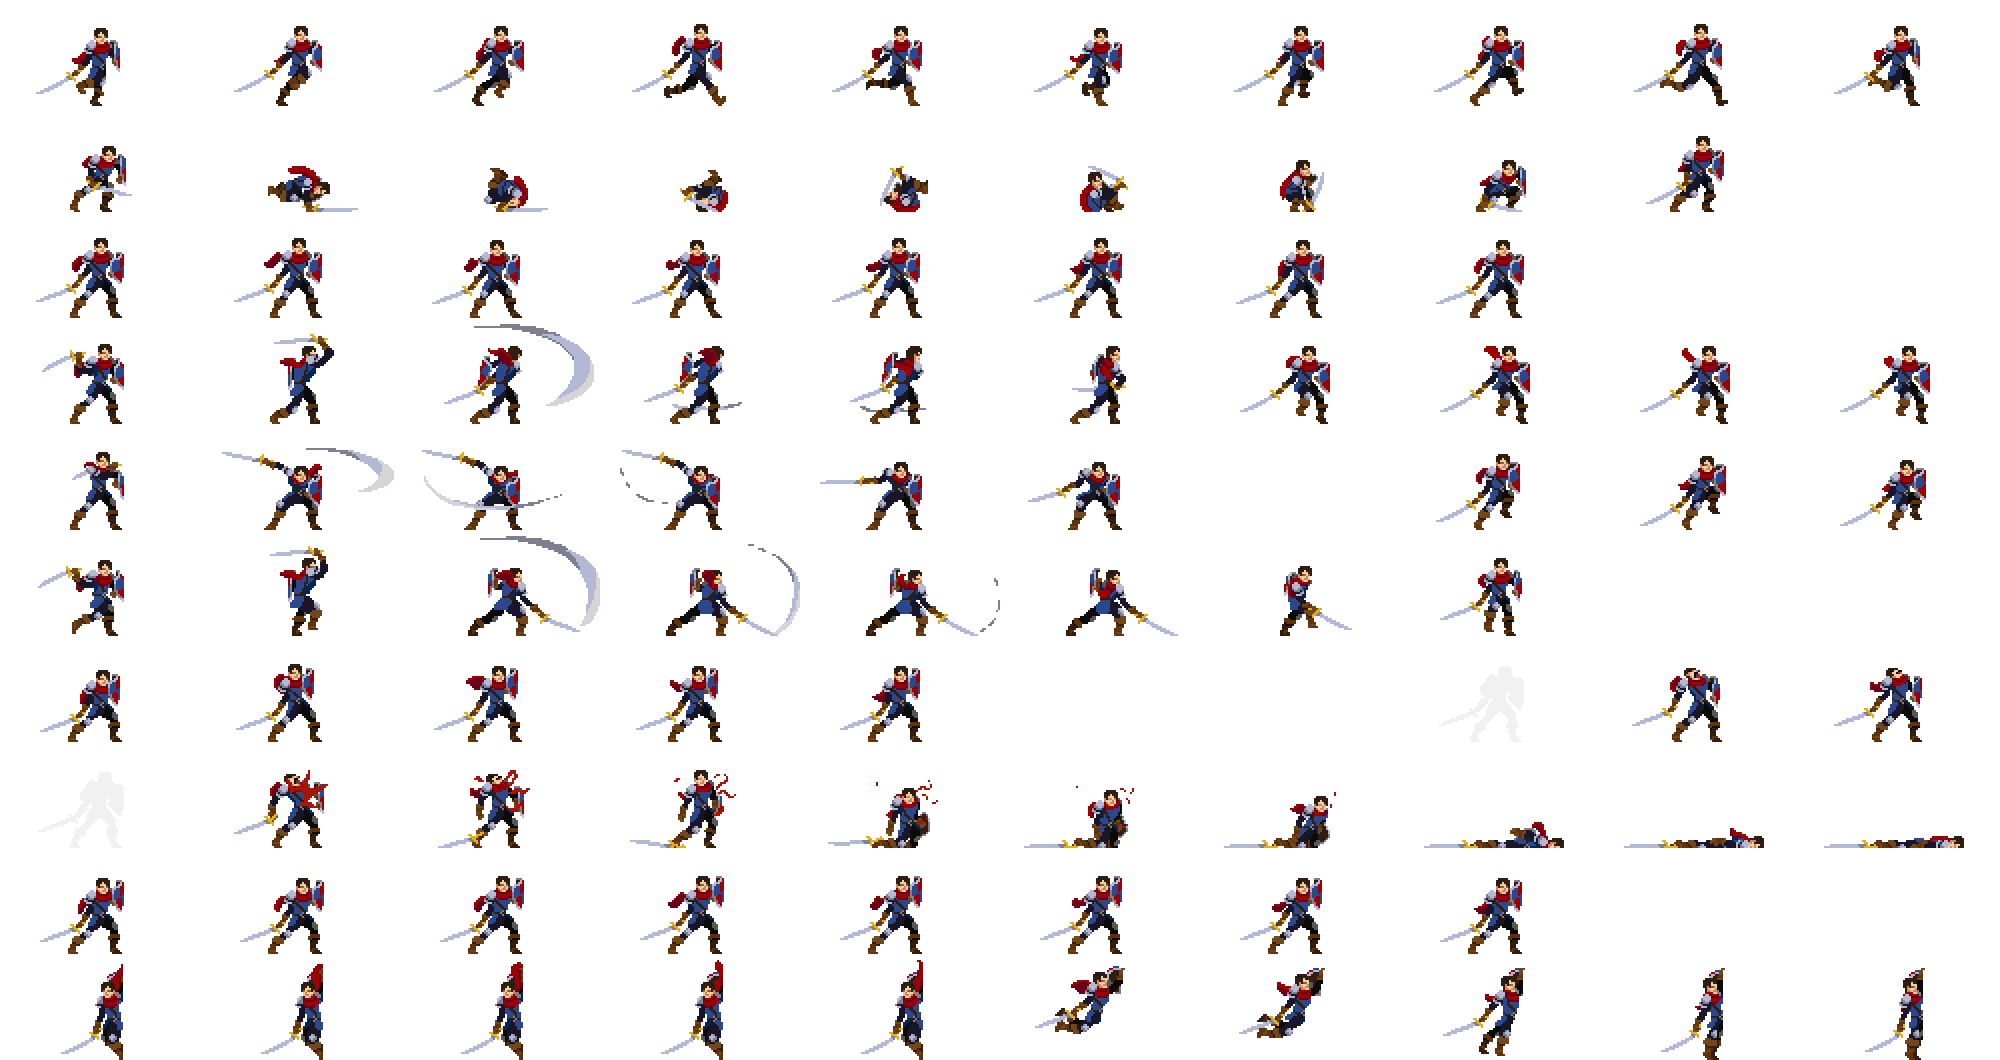
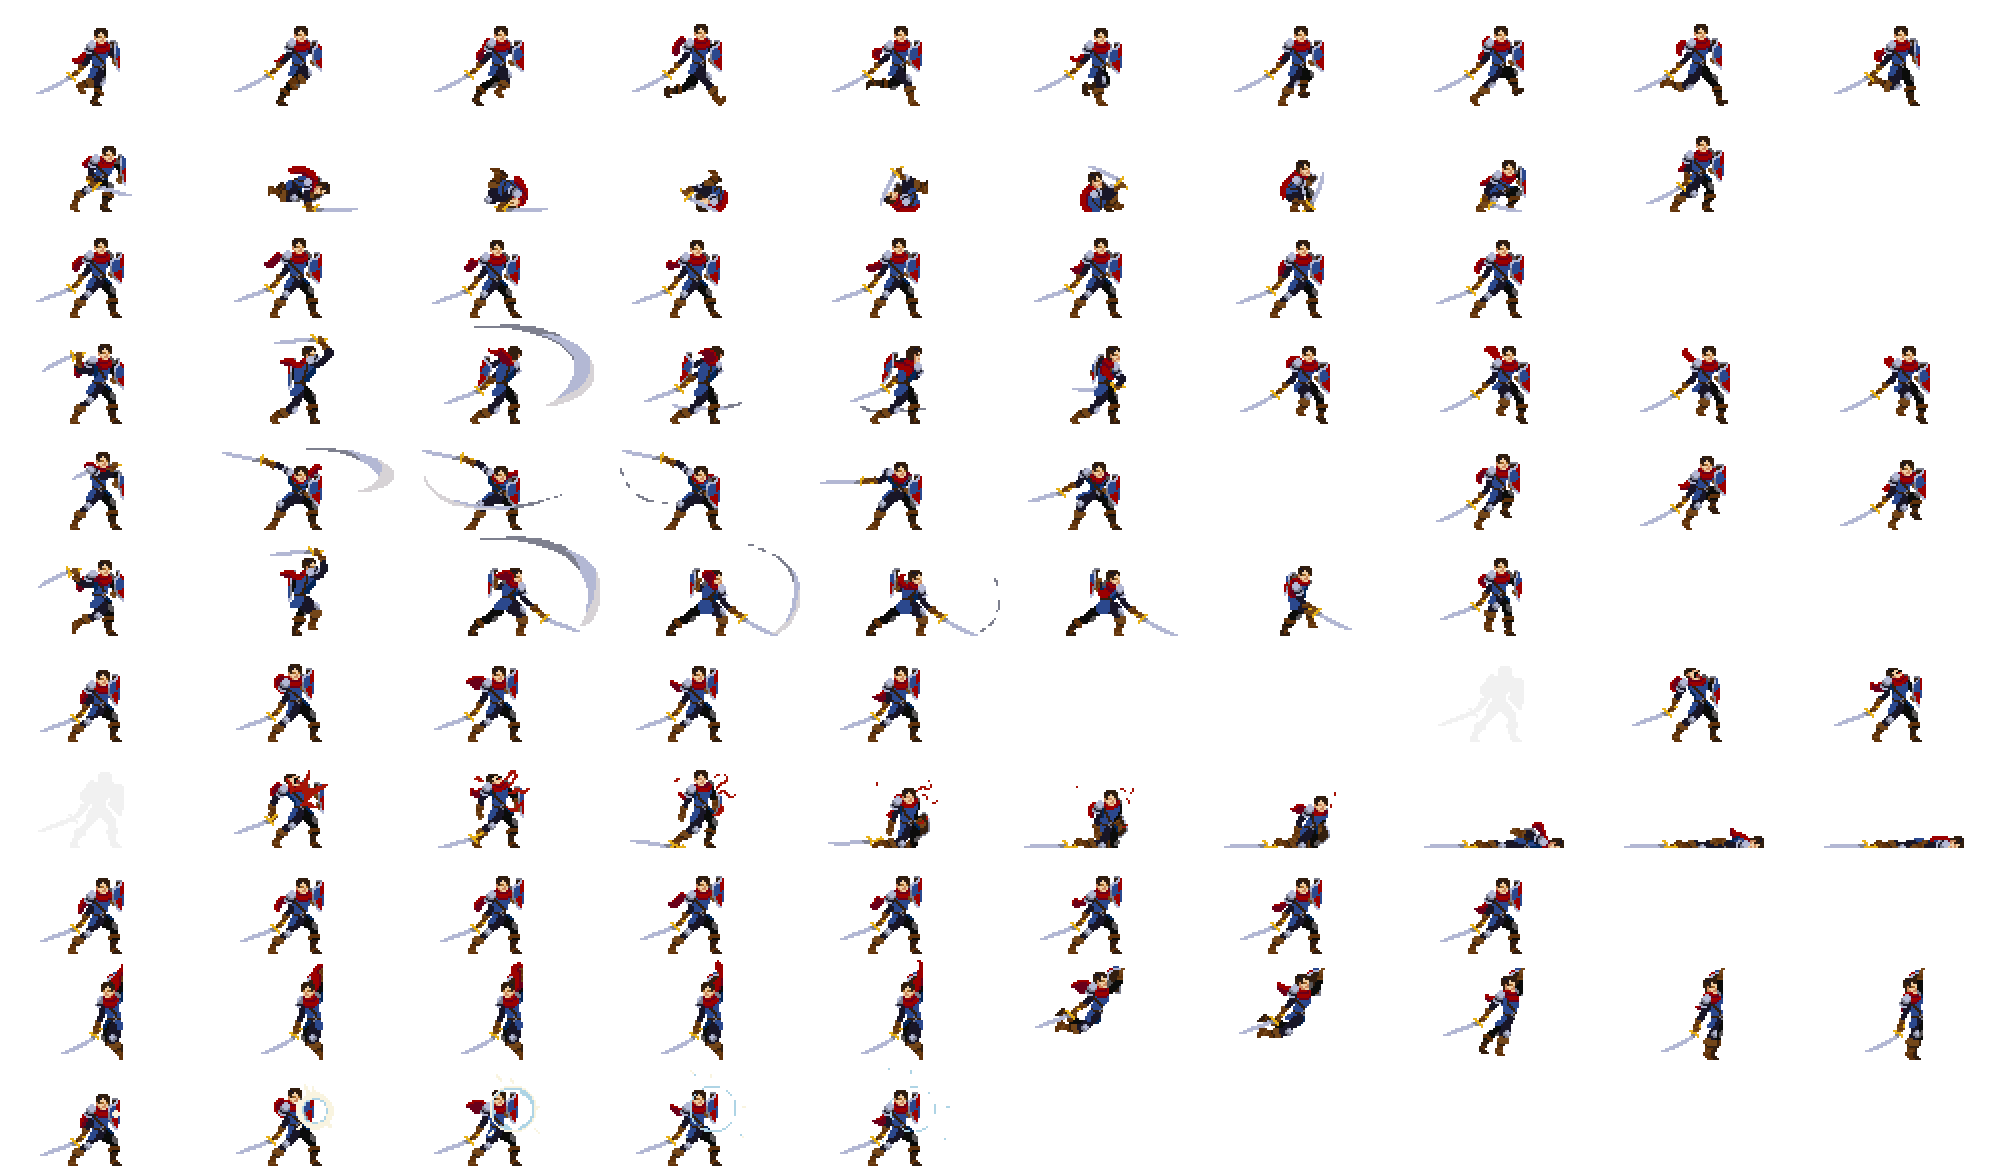
Hit block
Добавил обработку блокирования удара для игрока с учётом позиционирования к врагу.

diff --git a/src/Characters/Character.h b/src/Characters/Character.h
@@ -49,11 +49,12 @@ public:
     virtual void Update(float dt) = 0;
     virtual void Clean() = 0;
 
-    void SetDirection(Direction dir) { m_Direction = dir; }
-    void ChangeDirection();
+    virtual Direction GetDirection() { return m_Direction; }
+    virtual void SetDirection(Direction dir) { m_Direction = dir; }
+    virtual void ChangeDirection();
 
-    std::string GetAnimParamsSource();
-    void LoadAnimations(const std::string& fileSource);
+    virtual std::string GetAnimParamsSource();
+    virtual void LoadAnimations(const std::string& fileSource);
 
     virtual void SetParams(std::shared_ptr<AnimationSequence>, SDL_RendererFlip flip = SDL_FLIP_NONE);
     virtual void CollisionBoxRecalc();
@@ -65,12 +66,14 @@ public:
 
     virtual std::shared_ptr<SDL_Rect> GetCollisionBox() { return m_CollisionBox; }
     virtual std::shared_ptr<SDL_Rect> GetCollisionBoxAtk() { return m_CollisionBoxAtk; }
+    
     virtual Condition GetCondition() { return m_Condition; }
     virtual void SetCondition(Condition condition) { m_Condition = condition; }
 
     virtual void SetHitScored(bool scored) { m_HitScored = scored; }
     virtual bool GetHitScored() { return m_HitScored; }
     virtual bool IsHittingFrames() { return m_Animation->IsHitFrame(); }
+    virtual void SetHitBlocked(bool blocked) { m_HitBlocked = blocked; }
     
 
 protected:
@@ -97,7 +100,13 @@ protected:
 
     friend class AnimationParser;
 
-    bool m_HitScored {false};     // Current attack action (Hit) already scored a hit
+    bool m_HitScored {false};       // Current attack action (Hit) already scored a hit
+    
+    // For animating hit blocks faster than single block animation is done we need two variables:
+    // One for hit in block signal, that will be reset right after receiving
+    // Another for animating cycle
+    bool m_HitBlocked {false};      // Received a hit while in Blocking condition
+    bool m_HitBlockedEffect {false};    
 };
 
 

diff --git a/src/AI/AI.cpp b/src/AI/AI.cpp
@@ -15,9 +15,9 @@ AI::AI(BehaviorType behaveType) : Behavior { behaveType }
 
 void AI::Update(Enemy* enemy) 
 {
-    if (enemy->m_Condition == Character::Condition::Attacking || 
-        enemy->m_Condition == Character::Condition::Falling ||
-        enemy->m_Condition == Character::Condition::isHurt)
+    if (enemy->GetCondition() == Character::Condition::Attacking || 
+        enemy->GetCondition() == Character::Condition::Falling ||
+        enemy->GetCondition() == Character::Condition::isHurt)
     {
         return;
     }
@@ -50,11 +50,11 @@ void AI::Patrole(Enemy* enemy)
 {
     using Condition = Enemy::Condition;
     
-    if (enemy->m_Condition == Condition::IsIdle)
+    if (enemy->GetCondition() == Condition::IsIdle)
     {
         if (TimePassed(patrollingWaitingTime_ms, true, 0.8, 1.5))
         {
-            enemy->m_Condition = Condition::Running;
+            enemy->SetCondition(Condition::Running);
             enemy->ChangeDirection();
         }
         return;
@@ -109,18 +109,18 @@ void AI::ScanAround(Enemy* enemy)
 
 void AI::Run(Enemy* enemy)
 {
-    enemy->m_Condition = Enemy::Condition::Running;
+    enemy->SetCondition(Character::Condition::Running);
 }
 
 void AI::Attack(Enemy* enemy)
 {
-    enemy->m_Condition = Enemy::Condition::Attacking;
+    enemy->SetCondition(Enemy::Condition::Attacking);
     enemy->m_ComboState = Character::ComboState::HIT_1;
 }
 
 void AI::Idle(Enemy* enemy)
 {
-    enemy->m_Condition = Enemy::Condition::IsIdle;
+    enemy->SetCondition(Enemy::Condition::IsIdle);
 }
 
 

diff --git a/src/Battle/Battle.cpp b/src/Battle/Battle.cpp
@@ -39,17 +39,23 @@ void Battle::CheckPlayerIsHit(Enemy* enemy)
         return;
     if (enemy->GetHitScored())
         return;
-    if (Player->GetCondition() == Character::Condition::Blocking)
+
+    if (!Collision::CheckCollision(Player->GetCollisionBox(), enemy->GetCollisionBoxAtk(), attackOverlapX))
+    {    
         return;
-    if (Collision::CheckCollision(Player->GetCollisionBox(), enemy->GetCollisionBoxAtk(), attackOverlapX))
+    }
+
+    if ((Player->GetCondition() == Character::Condition::Blocking) && CheckPlayerFacesEnemy(enemy))
     {
-        Player->SetCondition(Character::Condition::isHurt);
-        enemy->SetHitScored(true);
+        Player->SetHitBlocked(true);
         return;
     }
     
+    Player->SetCondition(Character::Condition::isHurt);
+    enemy->SetHitScored(true);
     return;
 }
+
 
 void Battle::CheckEnemyIsHit(Enemy* enemy)
 {
@@ -65,4 +71,19 @@ void Battle::CheckEnemyIsHit(Enemy* enemy)
     }
 
     return;
+}
+
+bool Battle::CheckPlayerFacesEnemy(Enemy* enemy)
+{
+    using Direction = Character::Direction;
+    
+    switch (Player->GetDirection())
+    {
+    case Direction::forward:
+        return (Player->GetPosition()->X < enemy->GetPosition()->X);
+    case Direction::backward:
+        return (Player->GetPosition()->X > enemy->GetPosition()->X);
+    default:
+        return false;
+    }
 }

diff --git a/src/Characters/Knight.cpp b/src/Characters/Knight.cpp
@@ -406,6 +406,22 @@ void Knight::Block()
     m_RigidBody->Stop();
     m_RigidBody->UnsetForce();
 
+    if (m_HitBlocked)
+    {
+        m_Animation->SetAnimIsOver();
+        SetHitBlocked(false);
+        m_HitBlockedEffect = true;
+    }
+    if (m_HitBlockedEffect)
+    {
+        CheckDirectionSetParams(m_AnimationSequences.at("blockHit"));
+        if (m_Animation->UpdateSingle())
+        {
+            m_HitBlockedEffect = false;
+        }
+        return;
+    }
+
     CheckDirectionSetParams(m_AnimationSequences.at("block"));
 
 

diff --git a/src/Animation/Animation.cpp b/src/Animation/Animation.cpp
@@ -61,9 +61,9 @@ void Animation::Draw(float x, float y)
 
 void Animation::SetParams(const std::string& textureID, std::shared_ptr<AnimationSequence> animSequence, SDL_RendererFlip flip)
 {
-    m_TextureID = textureID;
     if (m_AnimSequence != animSequence)
     {
+        m_TextureID = textureID;
         SetAnimIsOver();
         m_AnimSequence = animSequence;
     }

diff --git a/src/Battle/Battle.h b/src/Battle/Battle.h
@@ -34,6 +34,7 @@ public:
     void Update();
     void CheckPlayerIsHit(Enemy* enemy);
     void CheckEnemyIsHit(Enemy* enemy);
+    bool CheckPlayerFacesEnemy(Enemy* enemy);
 
 };
 #endif /* BATTLE_H */
